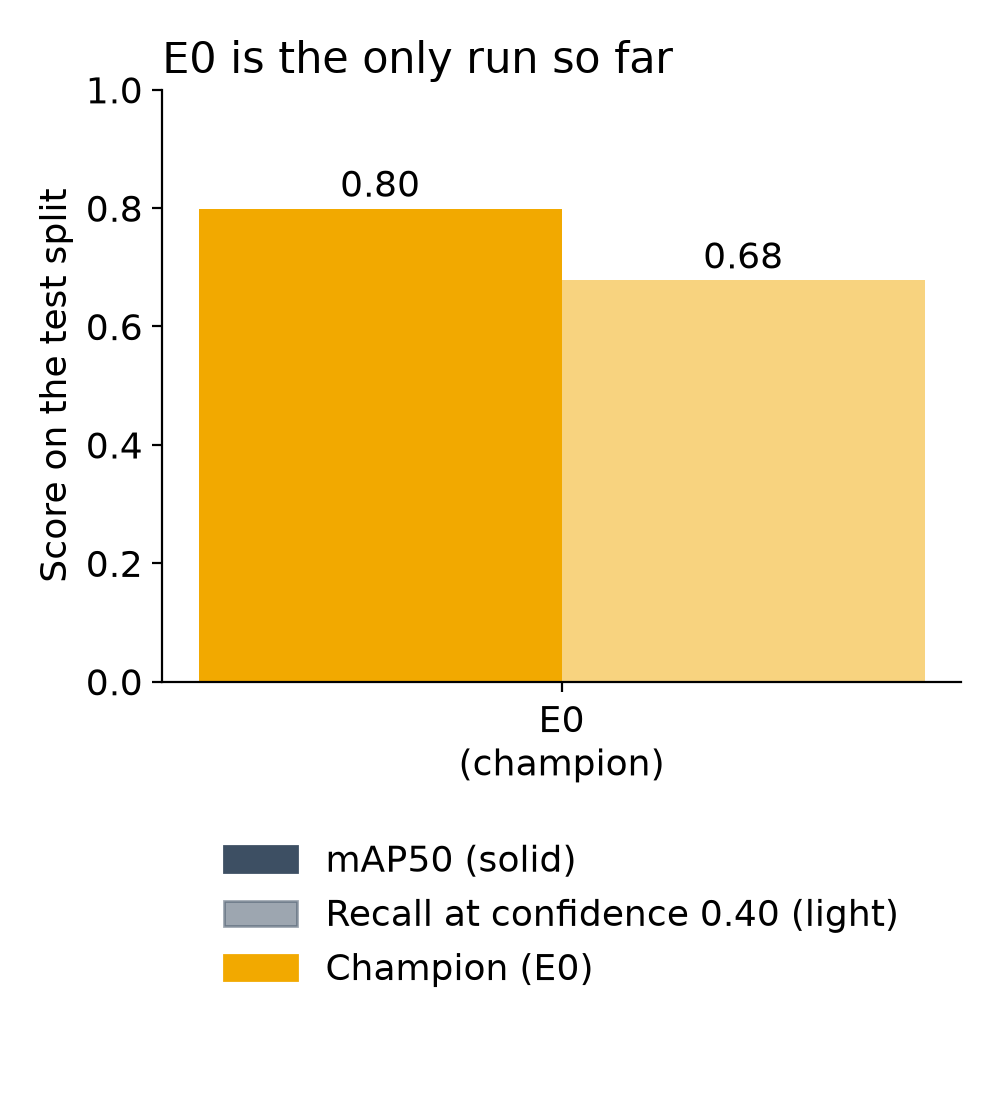
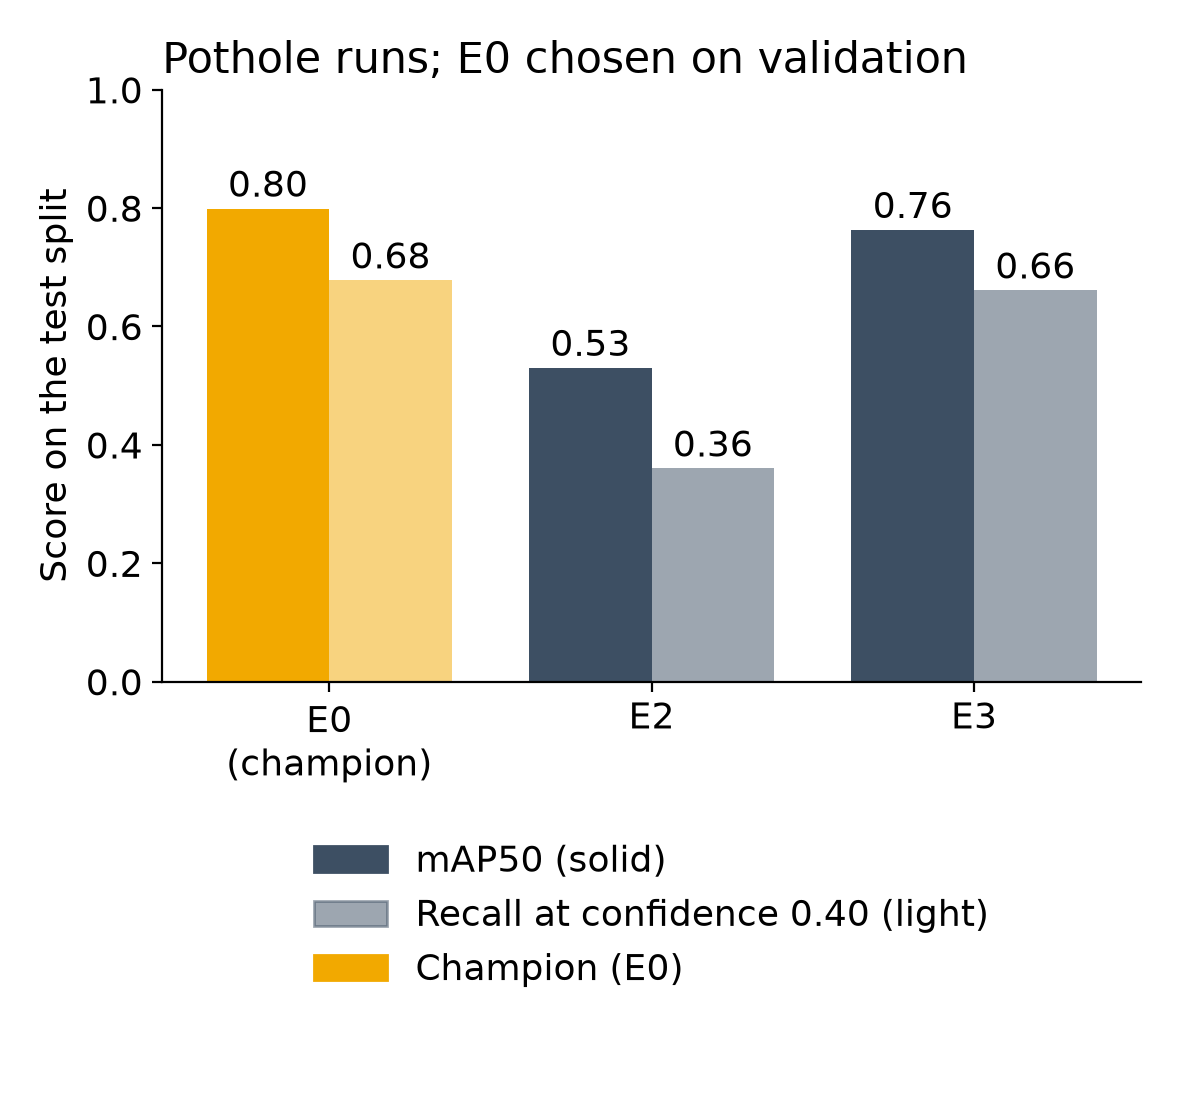
Add runs E2, E3 and re-export the pothole results

diff --git a/docs/TASKS.md b/docs/TASKS.md
@@ -102,8 +102,8 @@ Never cut: E0–E5 with their result files, restroom R0, R1, R6 and one fine-tun
 | [ ] | [M-2](https://github.com/tairqaldy/qarau-ict-final-1st-trimester/issues/51) | P0 | Routine after each run: commit the run JSON, copy `best.pt` to Drive as `jolscan-<run>.pt` | M-1, X-5 | Written in the notebook's last cell | 15 m |
 | [x] | [M-3](https://github.com/tairqaldy/qarau-ict-final-1st-trimester/issues/52) | P0 | Run E0 baseline. **Deadline Tuesday 23:00** **Done: Tair, 11 November 2026. E0 trained on an Apple M5 GPU (MPS), 40 epochs: test mAP50 0.799, mAP50-95 0.517, recall at 0.40 0.678 ([E0.json](../ml/results/runs/E0.json)).** | M-1 | `E0.json` committed, weights in Drive, posted to the serving lane | 45 m |
 | [ ] | [M-4](https://github.com/tairqaldy/qarau-ict-final-1st-trimester/issues/53) | P0 | Run E1 model width **Claimed: Amina, 2026-11-11 13:28:40 +05:00, branch `model/m4-e1`. Preparation only; training awaits E0 configuration compatibility.** | M-3 | Same | 60 m |
-| [ ] | [M-5](https://github.com/tairqaldy/qarau-ict-final-1st-trimester/issues/54) | P0 | Run E2 no transfer learning **Claimed: Tair, 11 November 2026 13:29 Almaty, branch `model/runs-e2-e7`.** | M-3 | Same | 45 m |
-| [ ] | [M-6](https://github.com/tairqaldy/qarau-ict-final-1st-trimester/issues/55) | P0 | Run E3 frozen backbone **Claimed: Tair, 11 November 2026 13:29 Almaty, branch `model/runs-e2-e7`.** | M-3 | Same | 35 m |
+| [x] | [M-5](https://github.com/tairqaldy/qarau-ict-final-1st-trimester/issues/54) | P0 | Run E2 no transfer learning **Done: Tair, 11 November 2026. E2 on the Apple M5 GPU: validation mAP50 0.439, test mAP50 0.530 ([E2.json](../ml/results/runs/E2.json)).** | M-3 | Same | 45 m |
+| [x] | [M-6](https://github.com/tairqaldy/qarau-ict-final-1st-trimester/issues/55) | P0 | Run E3 frozen backbone **Done: Tair, 11 November 2026. E3 on the Apple M5 GPU: validation mAP50 0.779, test mAP50 0.763 ([E3.json](../ml/results/runs/E3.json)).** | M-3 | Same | 35 m |
 | [ ] | [M-7](https://github.com/tairqaldy/qarau-ict-final-1st-trimester/issues/56) | P0 | Run E4 optimizer **Claimed: Tair, 11 November 2026 13:29 Almaty, branch `model/runs-e2-e7`.** | M-3 | Same | 45 m |
 | [ ] | [M-8](https://github.com/tairqaldy/qarau-ict-final-1st-trimester/issues/57) | P0 | Run E5 standard augmentations off **Claimed: Tair, 11 November 2026 13:29 Almaty, branch `model/runs-e2-e7`.** | M-3 | Same | 35 m |
 | [ ] | [M-10](https://github.com/tairqaldy/qarau-ict-final-1st-trimester/issues/58) | P0 | Run E7 extra P2 detection scale. Write three sentences on what the P2 head adds in `ml/README.md` **Claimed: Tair, 11 November 2026 13:29 Almaty, branch `model/runs-e2-e7`.** | M-3 | Same, plus the explanation | 1 h |
